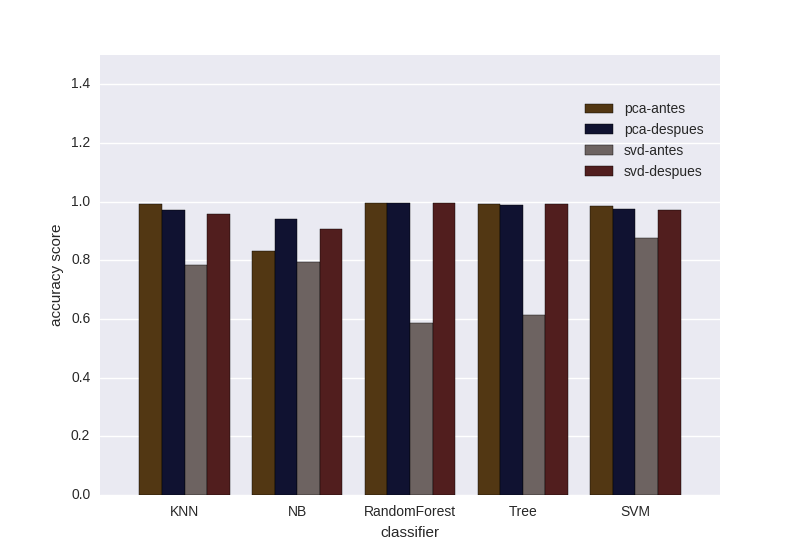
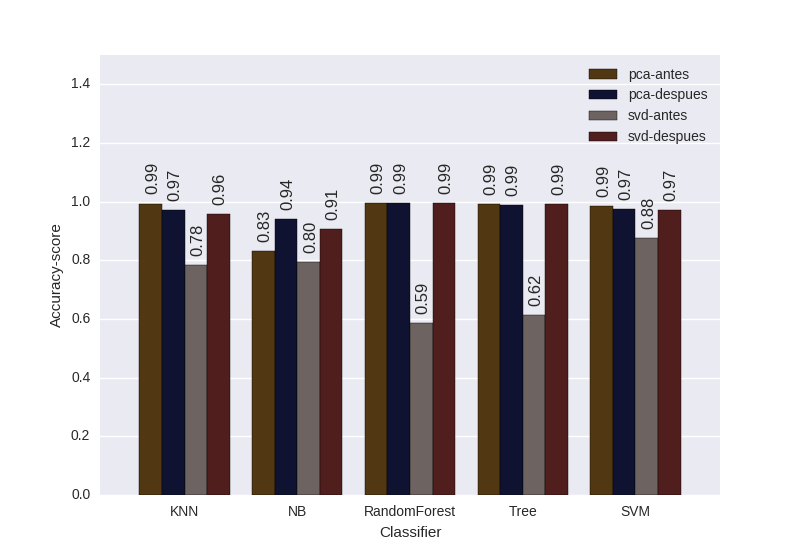
subiendo graficos

diff --git a/trabajos_practicos/tp1/src/plot_times.py b/trabajos_practicos/tp1/src/plot_times.py
@@ -1,6 +1,7 @@
 import pandas as pd 
 import seaborn as sns
 import matplotlib.pyplot as plt
+import math
 
 sns.set(style="darkgrid")
 
@@ -8,16 +9,16 @@ df = pd.read_csv(open('../results/times.csv'))
 
 palette = {'pca-antes':"#5C3908", 'pca-despues':"#0B0D36", 'svd-antes':"#6F625F", 'svd-despues':"#5A1615"}
 ax = sns.barplot(x='classifier', y='prediction_time', hue='decomposition', data=df, palette=palette)
+ax.set(yscale="log")
+ax.set_xlabel('Classifier')
+ax.set_ylabel('Prediction time (seconds)')
 
-ax.set_ylabel('clocks')
-
-plot_margin = 0.25
+plot_margin = 0.5
 
 for p in ax.patches:
 	x = p.get_x()
-	p.set_width(10)
 	height = p.get_height()
-	ax.text(x, height+0.1, '%1.2f'%(height/10))
+	ax.text(x + 0.05, 3.5*height, '%1.2f'%(height), rotation='vertical')
 
 x0, x1, y0, y1 = plt.axis()
 plt.axis((x0 - plot_margin,
@@ -25,5 +26,5 @@ plt.axis((x0 - plot_margin,
           y0,
           y1 + 2*plot_margin))
 
-plt.legend(bbox_to_anchor=(1.05, 1), loc=0, borderaxespad=3.)
+plt.legend(loc=1)
 plt.show()

diff --git a/trabajos_practicos/tp1/src/plot.py b/trabajos_practicos/tp1/src/plot.py
@@ -7,11 +7,17 @@ sns.set(style="darkgrid")
 df = pd.read_csv(open('../results/scores.csv'))
 
 palette = {'pca-antes':"#5C3908", 'pca-despues':"#0B0D36", 'svd-antes':"#6F625F", 'svd-despues':"#5A1615"}
-ax = sns.barplot(x='classifier', y='f1', hue='decomposition', data=df, palette=palette)
+ax = sns.barplot(x='classifier', y='recall', hue='decomposition', data=df, palette=palette)
 
-ax.set_ylabel('f1 score')
+ax.set_xlabel('Classifier')
+ax.set_ylabel('Recall-score')
 
 plot_margin = 0.25
+
+for p in ax.patches:
+	x = p.get_x()
+	height = p.get_height()
+	ax.text(x + 0.05, height + 0.1, '%1.2f'%(height), rotation='vertical')
 
 x0, x1, y0, y1 = plt.axis()
 plt.axis((x0 - plot_margin,
@@ -19,9 +25,6 @@ plt.axis((x0 - plot_margin,
           y0,
           y1 + 2*plot_margin))
 
-for p in ax.patches:
-	height = p.get_height()
-	ax.text(p.get_x(), height+3, '%1.2f'%(height/10))
 
-plt.legend(bbox_to_anchor=(1.05, 1), loc=0, borderaxespad=3.)
+plt.legend(loc=1)
 plt.show()
